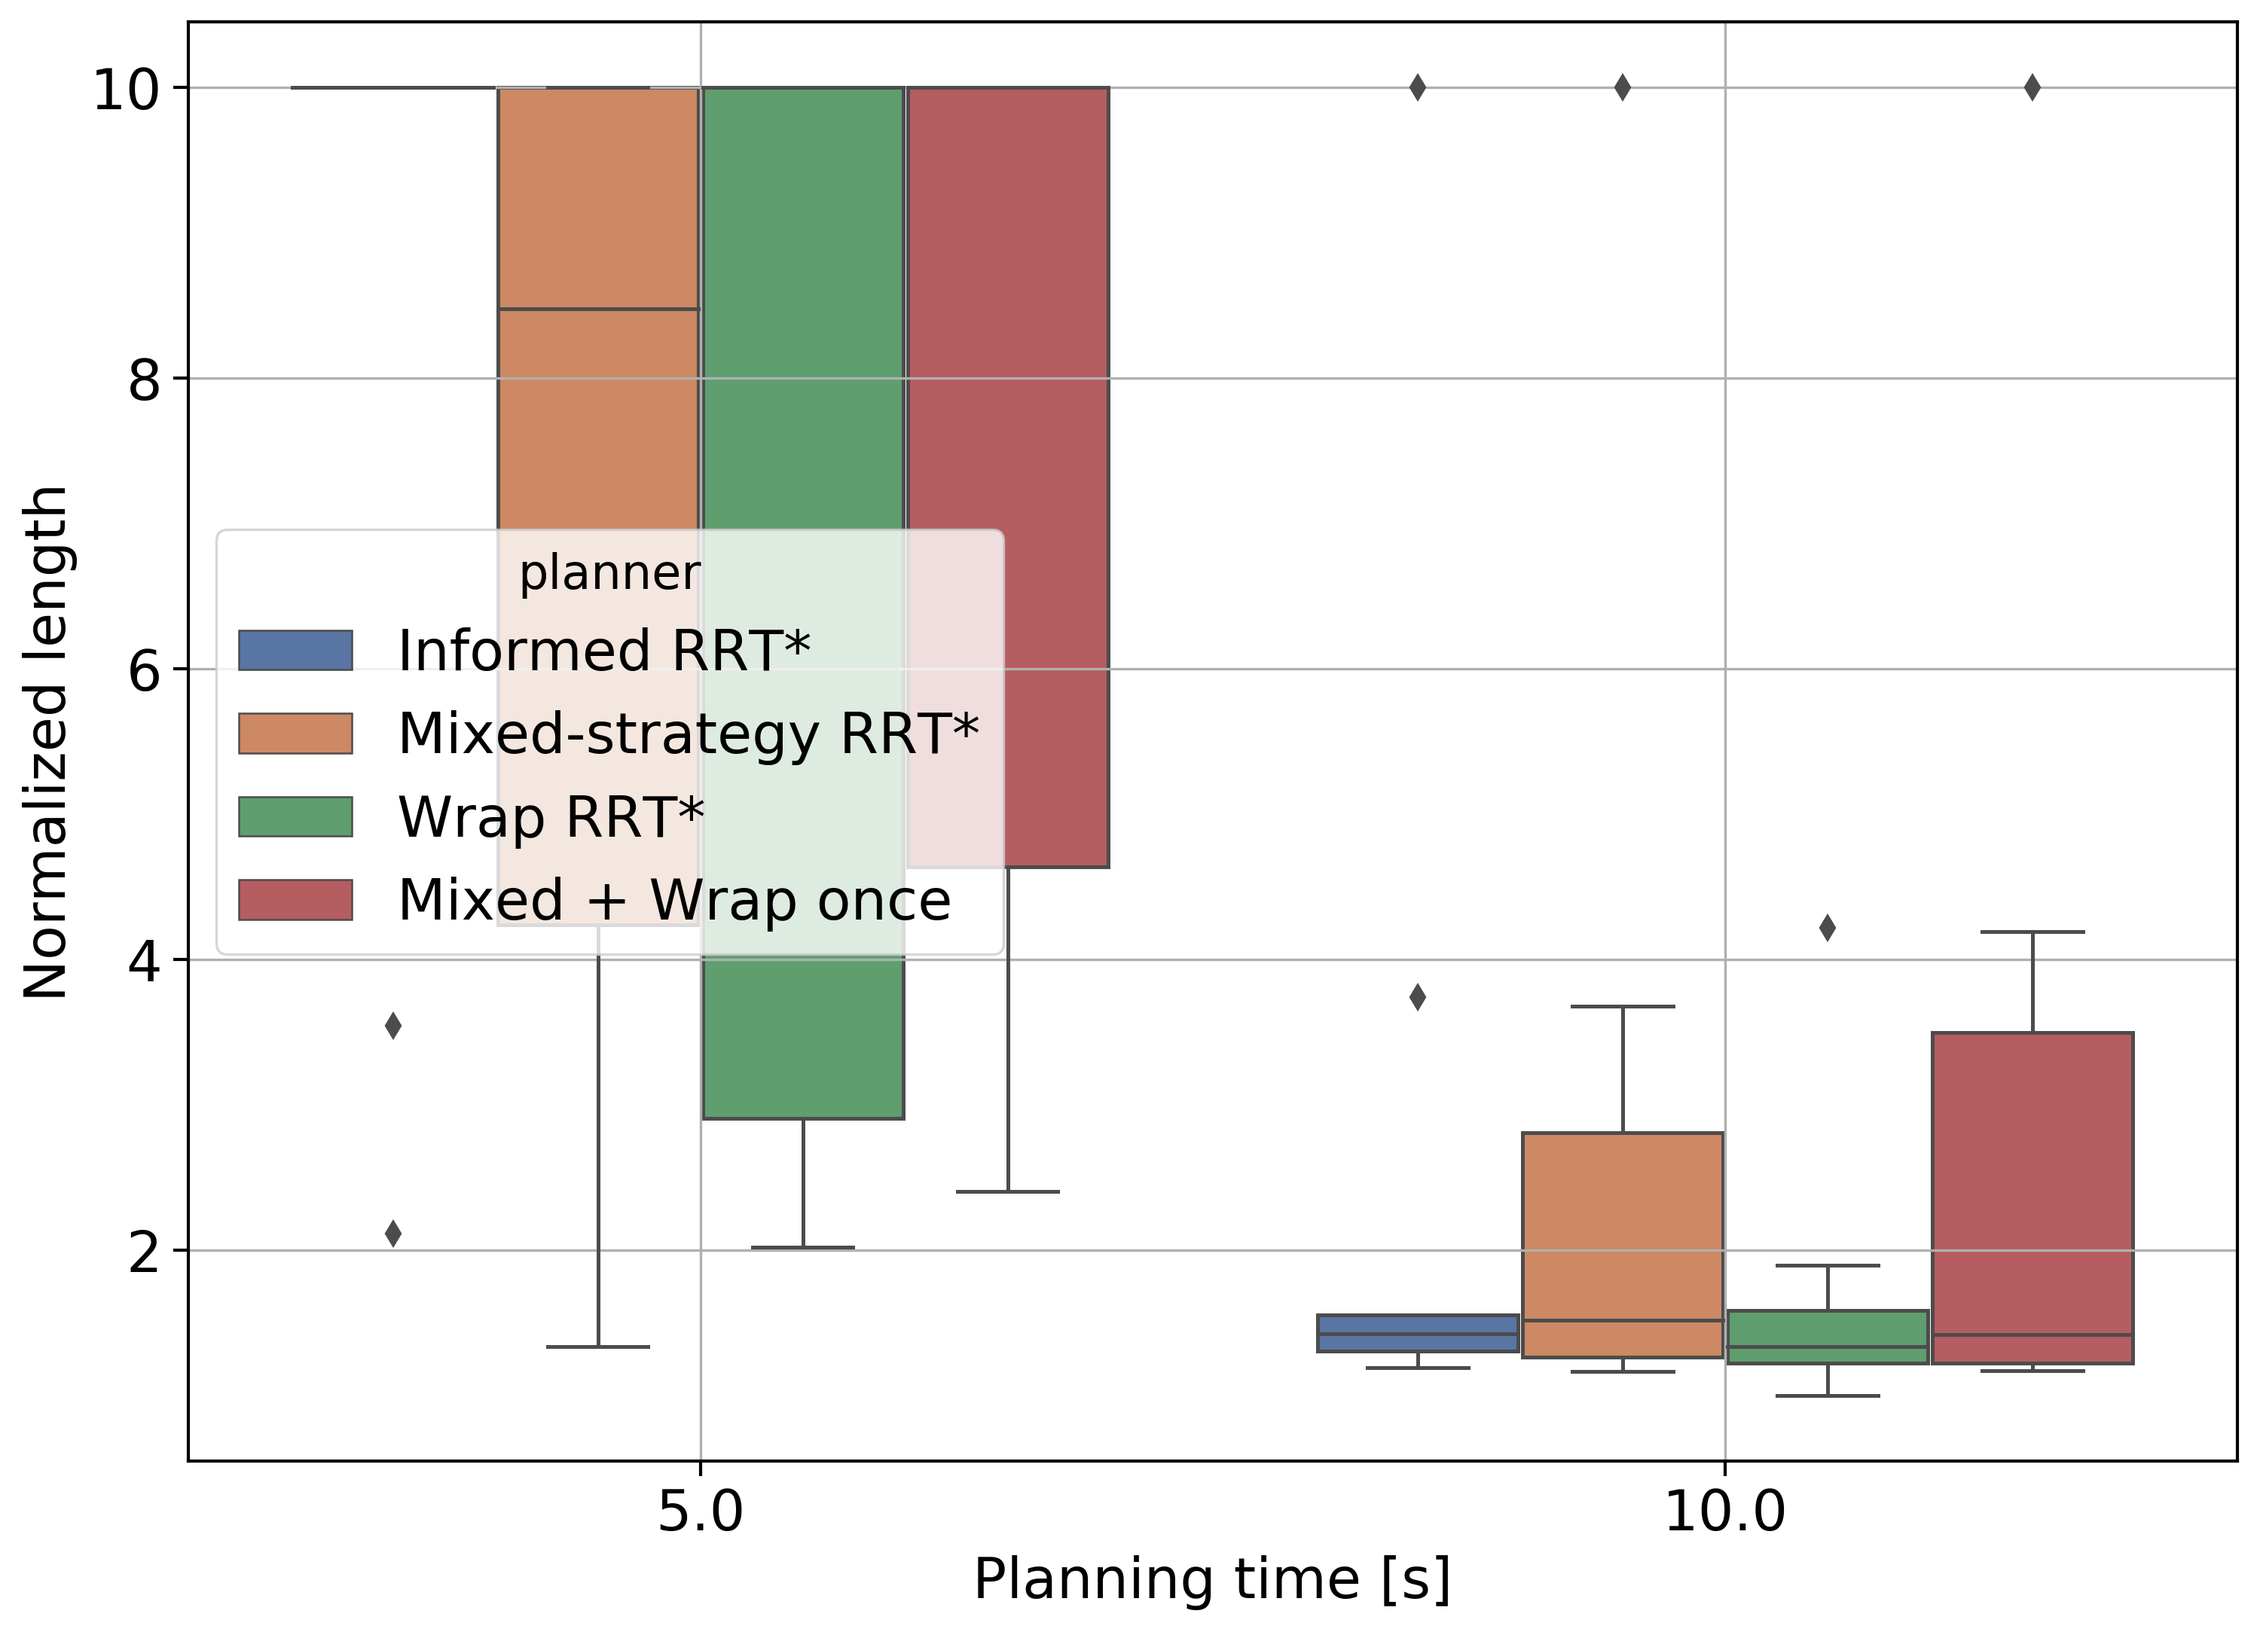
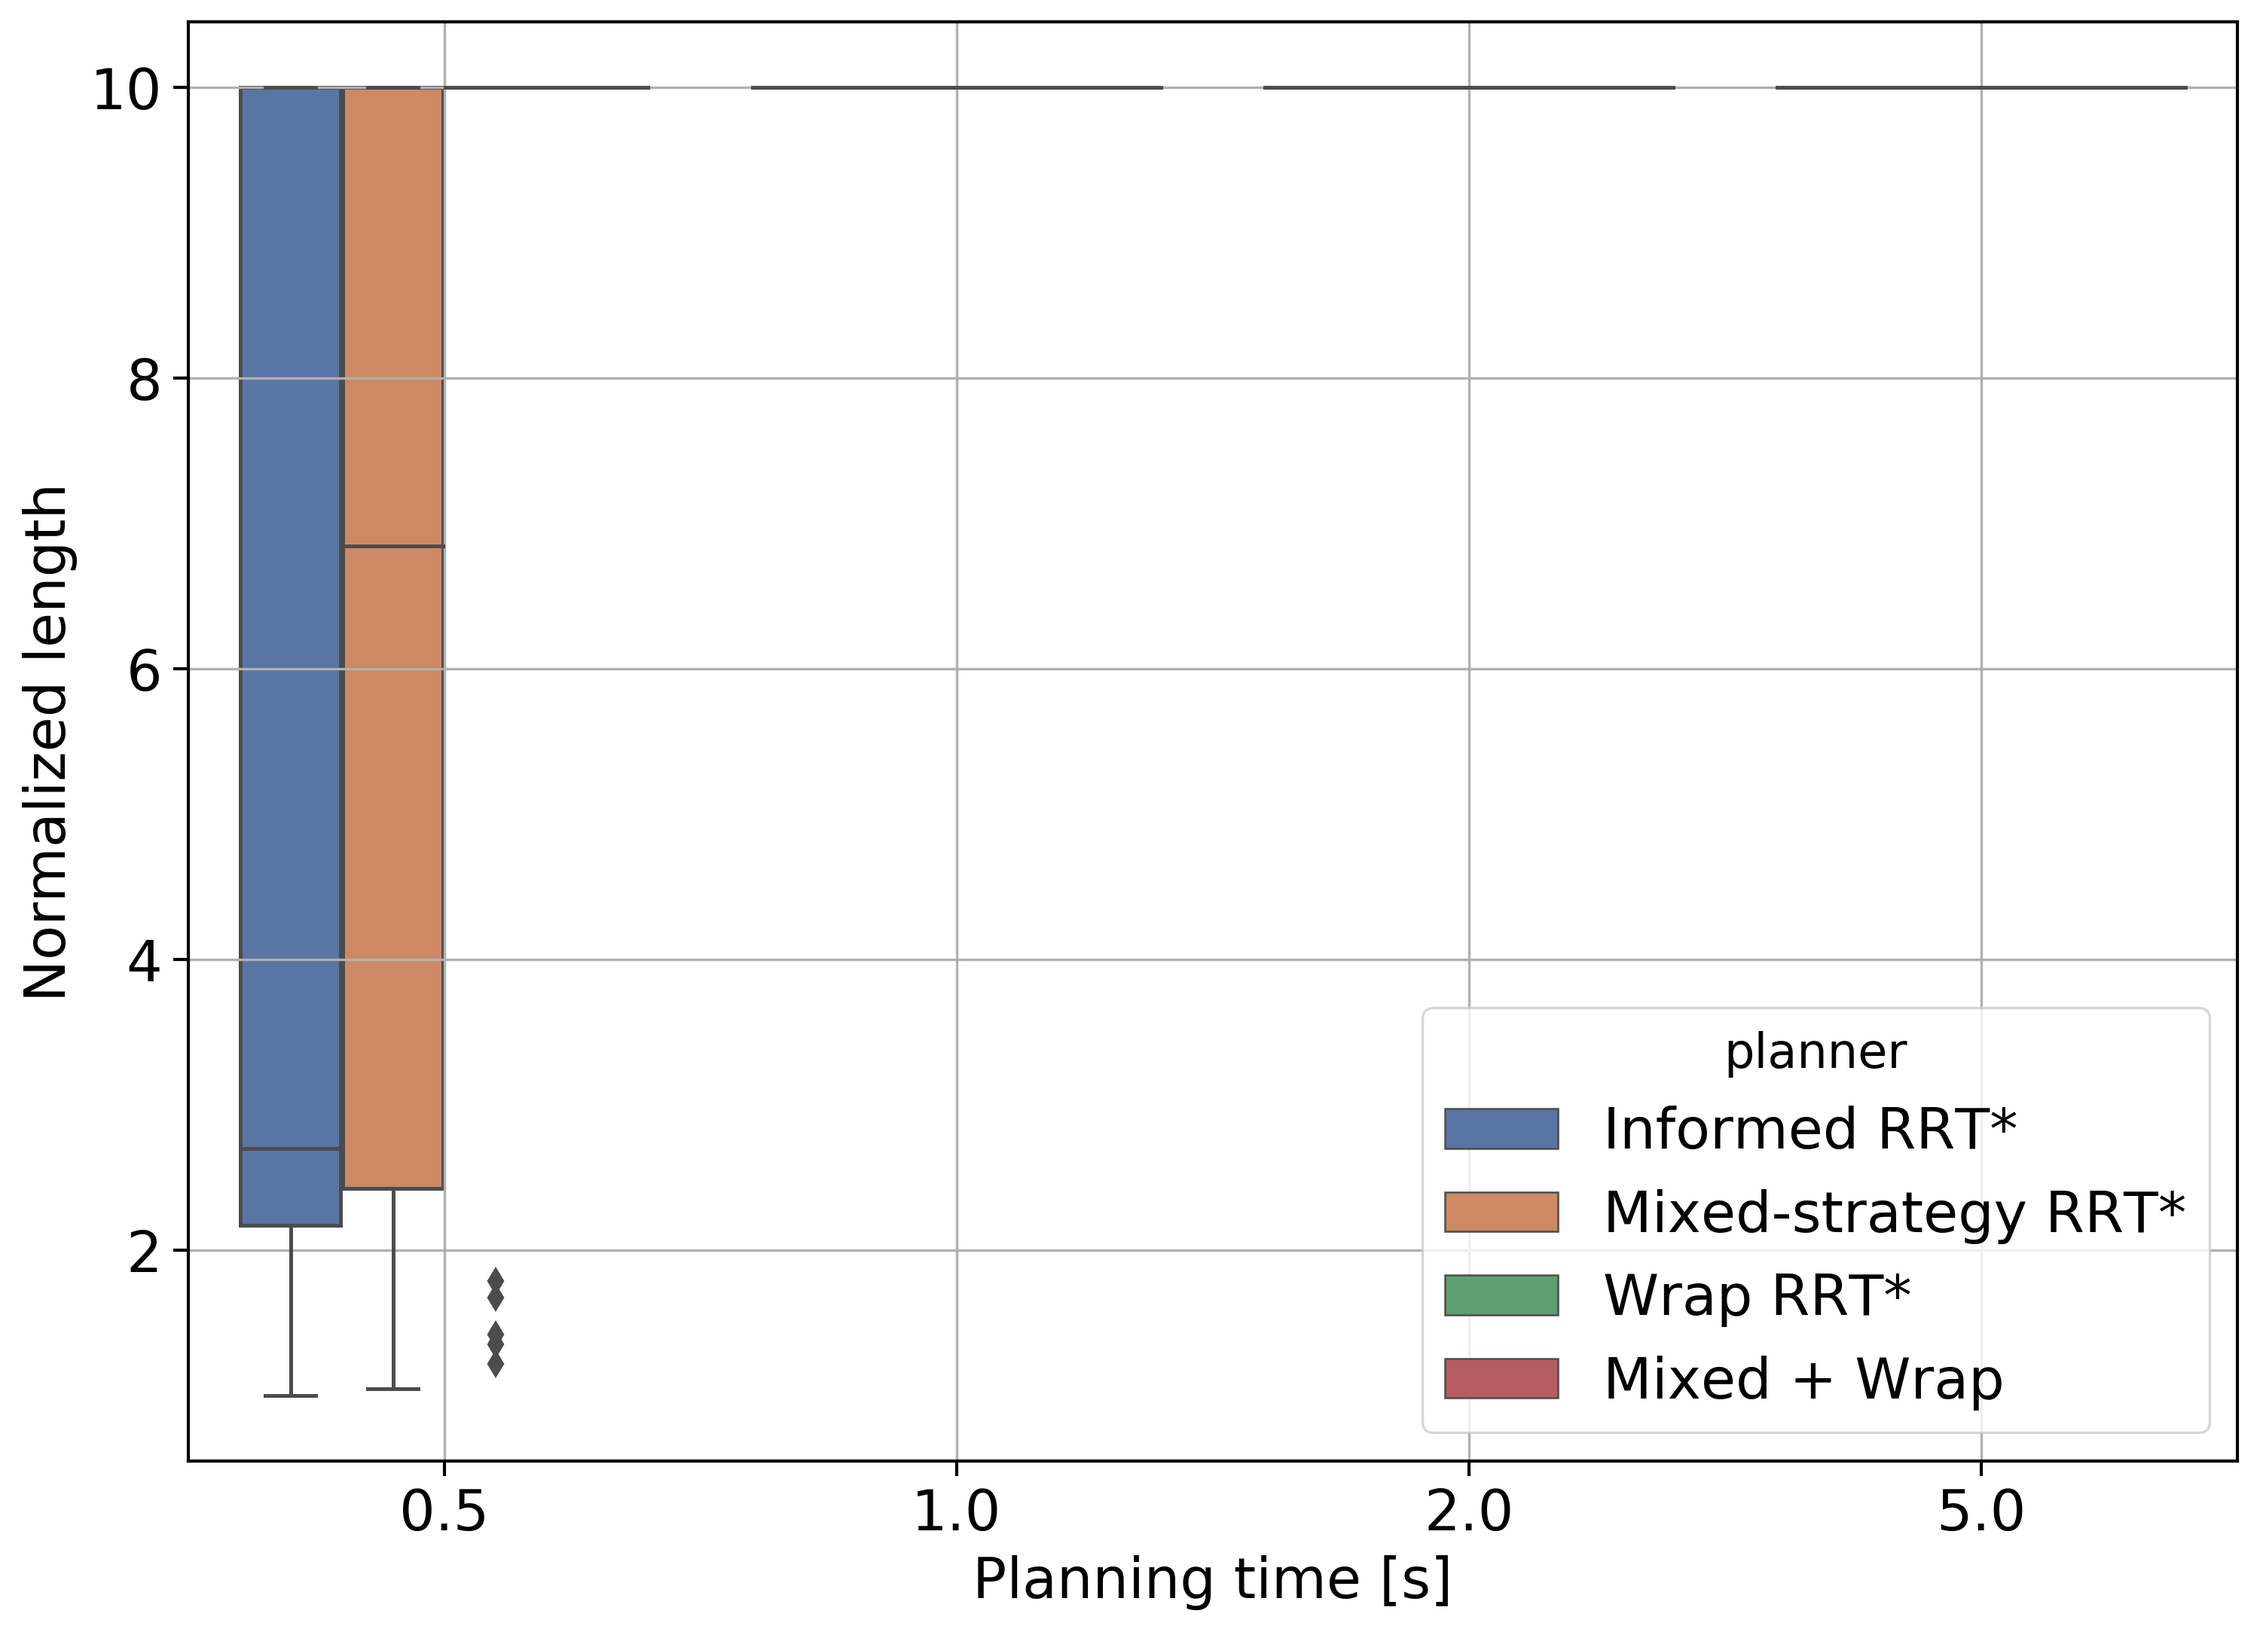
sharework

diff --git a/scripts/view_results.py b/scripts/view_results.py
@@ -45,7 +45,8 @@ for dof in [6]: #[6, 9,12,18]:
     #planner_name=["Informed RRT*","Mixed-strategy RRT*"]
 
     tested_planners=tested_planners[0:4]
-    planner_name=["Informed RRT*","Mixed-strategy RRT*","Wrap RRT*","Mixed + Wrap once"]
+    print(tested_planners)
+    planner_name=["Informed RRT*","Mixed-strategy RRT*","Wrap RRT*","Mixed + Wrap"]
     #planner_name=["Informed RRT*","Mixed-strategy RRT*","Wrap RRT*",]
 
     for iquery in range(0,queries_number):
@@ -92,7 +93,7 @@ for dof in [6]: #[6, 9,12,18]:
 
     a4_dims = (11.7, 8.27)
     db1=pd.DataFrame(cost_over_time)
-    sel_planning_times=[0.05,0.2,0.5,1,3,5,10]
+    sel_planning_times=[0.05,0.2,0.5,1,2,3,5,10]
     db2=db1.loc[db1['Planning time [s]'].isin(sel_planning_times),:]
 
     # fig, ax = plt.subplots(figsize=a4_dims);
